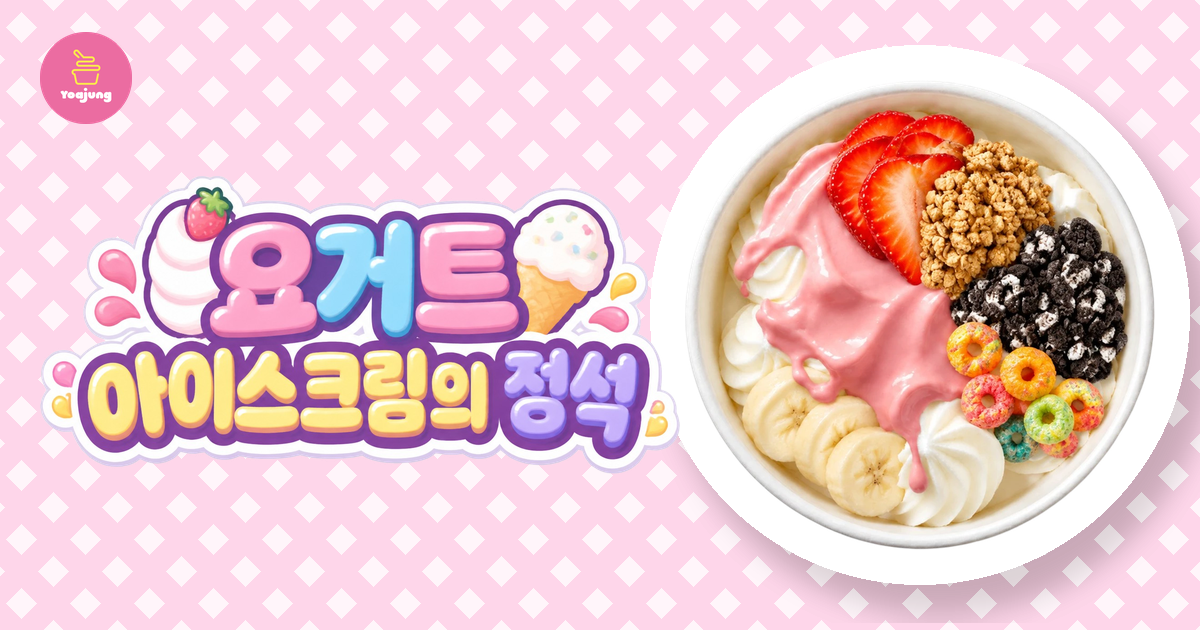
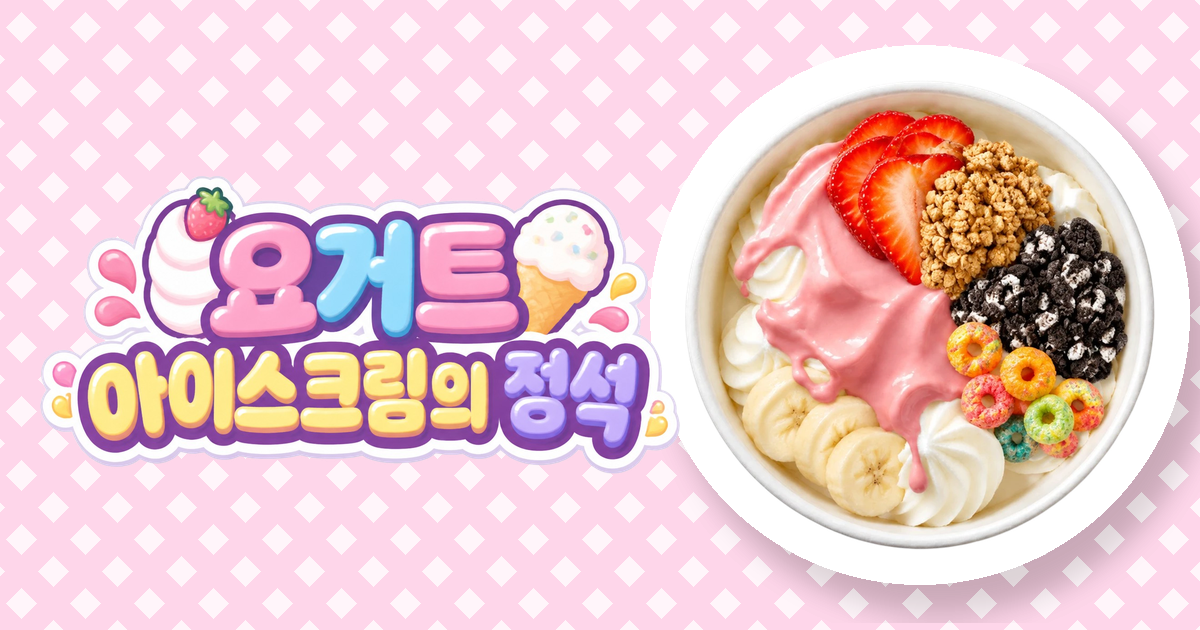
로고 스티커를 직접 만든 아이스크림 스티커로 교체, 소리·전환 다듬기
- 포장 뚜껑·주문서·영수증의 스티커를 벡터 아이스크림 스티커로
- 파비콘은 핑크 아이스크림 아이콘, OG 이미지에서 로고 제거
- 과일·디저트·쉘·시럽 소리를 타-다-닥 세 번으로, 시작 화면 전환 부드럽게

Changed region(s): [[0.0308, 0.0302, 0.1233, 0.2111]]

diff --git a/index.html b/index.html
@@ -183,7 +183,7 @@ a{color:#231B18}a:hover{color:#E5007A}
     </div>
     <sc-if value="{{packed}}">
       <img class="yj-lid" src="assets/778dcc3df15bb22812242dc68f4e9d0c.png" alt="요아정 컵 뚜껑" draggable="false" style="left: 47.5%; top: 46%; width: {{lidW}}px; height: {{lidW}}px; object-fit: contain; filter: drop-shadow(10px 16px 12px rgba(35,27,24,0.22));">
-      <img class="yj-sticker" src="assets/72e3a85ac19e23f7f4706af8a10f4ad3.png" alt="요아정 스티커" draggable="false" style="left: 47.5%; top: 48%; width: {{stickerW}}px; height: {{stickerW}}px; object-fit: contain; filter: drop-shadow(2px 4px 3px rgba(35,27,24,0.22));">
+      <img class="yj-sticker" src="assets/b2eb8bb2894132c700c296fcb87efa4e.svg" alt="요아정 스티커" draggable="false" style="left: 47.5%; top: 48%; width: {{stickerW}}px; height: {{stickerW}}px; object-fit: contain; filter: drop-shadow(2px 4px 3px rgba(35,27,24,0.22));">
     </sc-if>
   </div>
 
@@ -233,7 +233,7 @@ a{color:#231B18}a:hover{color:#E5007A}
     <sc-if value="{{showSummary}}">
       <div aria-label="주문서" style="position: absolute; left: 20px; top: 20px; width: 353px;">
         <div style="display: flex; align-items: center; justify-content: space-between; height: 24px;">
-          <span style="display: flex; align-items: center; gap: 6px; font-size: 14px; line-height: 20px; font-weight: 800; color: var(--color-accent);"><img src="assets/72e3a85ac19e23f7f4706af8a10f4ad3.png" alt="" style="width: 20px; height: 20px; object-fit: contain;">요아정 주문서</span>
+          <span style="display: flex; align-items: center; gap: 6px; font-size: 14px; line-height: 20px; font-weight: 800; color: var(--color-accent);"><img src="assets/b2eb8bb2894132c700c296fcb87efa4e.svg" alt="" style="width: 20px; height: 20px; object-fit: contain;">요아정 주문서</span>
           <span style="font-size: 12px; line-height: 16px; font-weight: 600; color: var(--color-text-secondary); font-variant-numeric: tabular-nums;">No.0047 · {{summaryCount}}</span>
         </div>
         <div style="margin: 8px 0 4px; border-top: 1.5px dashed var(--color-divider);"></div>
@@ -290,10 +290,10 @@ a{color:#231B18}a:hover{color:#E5007A}
 
   <sc-if value="{{paid}}">
     <div class="yj-scrim" style="position: absolute; left: 0; top: 0; width: 393px; height: 716px; background: var(--color-accent); z-index: 30;">
-      <img src="assets/72e3a85ac19e23f7f4706af8a10f4ad3.png" alt="요아정" style="position: absolute; left: 172px; top: 16px; width: 48px; height: 48px; object-fit: contain;">
+      <img src="assets/b2eb8bb2894132c700c296fcb87efa4e.svg" alt="요아정" style="position: absolute; left: 172px; top: 16px; width: 48px; height: 48px; object-fit: contain;">
       <article class="yj-print" style="position: absolute; left: 32px; top: 80px; width: 329px; box-sizing: border-box; padding: 20px 20px 24px; background: #FFFFFF; filter: drop-shadow(6px 10px 10px rgba(70,6,34,0.3)); display: flex; flex-direction: column; gap: 12px;">
         <div style="display: flex; align-items: baseline; justify-content: space-between; padding-bottom: 8px; border-bottom: 2px solid var(--color-accent);">
-          <span style="font-size: 20px; line-height: 28px; font-weight: 800; color: var(--color-accent); letter-spacing: -0.5px;">요아정 주문서</span>
+          <span style="font-size: 20px; line-height: 28px; font-weight: 800; color: var(--color-accent); letter-spacing: -0.5px;">주문서</span>
           <span style="font-size: 14px; line-height: 20px; font-weight: 700; color: var(--color-accent); font-variant-numeric: tabular-nums;">No.0047</span>
         </div>
         <div style="display: flex; flex-direction: column;">
@@ -332,7 +332,7 @@ a{color:#231B18}a:hover{color:#E5007A}
 </script>
 <script>(function(global,factory){typeof exports==="object"&&typeof module!=="undefined"?module.exports=factory():typeof define==="function"&&define.amd?define(factory):(global=global||self,global.morphdom=factory())})(this,function(){"use strict";var DOCUMENT_FRAGMENT_NODE=11;function morphAttrs(fromNode,toNode){var toNodeAttrs=toNode.attributes;var attr;var attrName;var attrNamespaceURI;var attrValue;var fromValue;if(toNode.nodeType===DOCUMENT_FRAGMENT_NODE||fromNode.nodeType===DOCUMENT_FRAGMENT_NODE){return}for(var i=toNodeAttrs.length-1;i>=0;i--){attr=toNodeAttrs[i];attrName=attr.name;attrNamespaceURI=attr.namespaceURI;attrValue=attr.value;if(attrNamespaceURI){attrName=attr.localName||attrName;fromValue=fromNode.getAttributeNS(attrNamespaceURI,attrName);if(fromValue!==attrValue){if(attr.prefix==="xmlns"){attrName=attr.name}fromNode.setAttributeNS(attrNamespaceURI,attrName,attrValue)}}else{fromValue=fromNode.getAttribute(attrName);if(fromValue!==attrValue){fromNode.setAttribute(attrName,attrValue)}}}var fromNodeAttrs=fromNode.attributes;for(var d=fromNodeAttrs.length-1;d>=0;d--){attr=fromNodeAttrs[d];attrName=attr.name;attrNamespaceURI=attr.namespaceURI;if(attrNamespaceURI){attrName=attr.localName||attrName;if(!toNode.hasAttributeNS(attrNamespaceURI,attrName)){fromNode.removeAttributeNS(attrNamespaceURI,attrName)}}else{if(!toNode.hasAttribute(attrName)){fromNode.removeAttribute(attrName)}}}}var range;var NS_XHTML="http://www.w3.org/1999/xhtml";var doc=typeof document==="undefined"?undefined:document;var HAS_TEMPLATE_SUPPORT=!!doc&&"content"in doc.createElement("template");var HAS_RANGE_SUPPORT=!!doc&&doc.createRange&&"createContextualFragment"in doc.createRange();function createFragmentFromTemplate(str){var template=doc.createElement("template");template.innerHTML=str;return template.content.childNodes[0]}function createFragmentFromRange(str){if(!range){range=doc.createRange();range.selectNode(doc.body)}var fragment=range.createContextualFragment(str);return fragment.childNodes[0]}function createFragmentFromWrap(str){var fragment=doc.createElement("body");fragment.innerHTML=str;return fragment.childNodes[0]}function toElement(str){str=str.trim();if(HAS_TEMPLATE_SUPPORT){return createFragmentFromTemplate(str)}else if(HAS_RANGE_SUPPORT){return createFragmentFromRange(str)}return createFragmentFromWrap(str)}function compareNodeNames(fromEl,toEl){var fromNodeName=fromEl.nodeName;var toNodeName=toEl.nodeName;var fromCodeStart,toCodeStart;if(fromNodeName===toNodeName){return true}fromCodeStart=fromNodeName.charCodeAt(0);toCodeStart=toNodeName.charCodeAt(0);if(fromCodeStart<=90&&toCodeStart>=97){return fromNodeName===toNodeName.toUpperCase()}else if(toCodeStart<=90&&fromCodeStart>=97){return toNodeName===fromNodeName.toUpperCase()}else{return false}}function createElementNS(name,namespaceURI){return!namespaceURI||namespaceURI===NS_XHTML?doc.createElement(name):doc.createElementNS(namespaceURI,name)}function moveChildren(fromEl,toEl){var curChild=fromEl.firstChild;while(curChild){var nextChild=curChild.nextSibling;toEl.appendChild(curChild);curChild=nextChild}return toEl}function syncBooleanAttrProp(fromEl,toEl,name){if(fromEl[name]!==toEl[name]){fromEl[name]=toEl[name];if(fromEl[name]){fromEl.setAttribute(name,"")}else{fromEl.removeAttribute(name)}}}var specialElHandlers={OPTION:function(fromEl,toEl){var parentNode=fromEl.parentNode;if(parentNode){var parentName=parentNode.nodeName.toUpperCase();if(parentName==="OPTGROUP"){parentNode=parentNode.parentNode;parentName=parentNode&&parentNode.nodeName.toUpperCase()}if(parentName==="SELECT"&&!parentNode.hasAttribute("multiple")){if(fromEl.hasAttribute("selected")&&!toEl.selected){fromEl.setAttribute("selected","selected");fromEl.removeAttribute("selected")}parentNode.selectedIndex=-1}}syncBooleanAttrProp(fromEl,toEl,"selected")},INPUT:function(fromEl,toEl){syncBooleanAttrProp(fromEl,toEl,"checked");syncBooleanAttrProp(fromEl,toEl,"disabled");if(fromEl.value!==toEl.value){fromEl.value=toEl.value}if(!toEl.hasAttribute("value")){fromEl.removeAttribute("value")}},TEXTAREA:function(fromEl,toEl){var newValue=toEl.value;if(fromEl.value!==newValue){fromEl.value=newValue}var firstChild=fromEl.firstChild;if(firstChild){var oldValue=firstChild.nodeValue;if(oldValue==newValue||!newValue&&oldValue==fromEl.placeholder){return}firstChild.nodeValue=newValue}},SELECT:function(fromEl,toEl){if(!toEl.hasAttribute("multiple")){var selectedIndex=-1;var i=0;var curChild=fromEl.firstChild;var optgroup;var nodeName;while(curChild){nodeName=curChild.nodeName&&curChild.nodeName.toUpperCase();if(nodeName==="OPTGROUP"){optgroup=curChild;curChild=optgroup.firstChild}else{if(nodeName==="OPTION"){if(curChild.hasAttribute("selected")){selectedIndex=i;break}i++}curChild=curChild.nextSibling;if(!curChild&&optgroup){curChild=optgroup.nextSibling;optgroup=null}}}fromEl.selectedIndex=selectedIndex}}};var ELEMENT_NODE=1;var DOCUMENT_FRAGMENT_NODE$1=11;var TEXT_NODE=3;var COMMENT_NODE=8;function noop(){}function defaultGetNodeKey(node){if(node){return node.getAttribute&&node.getAttribute("id")||node.id}}function morphdomFactory(morphAttrs){return function morphdom(fromNode,toNode,options){if(!options){options={}}if(typeof toNode==="string"){if(fromNode.nodeName==="#document"||fromNode.nodeName==="HTML"||fromNode.nodeName==="BODY"){var toNodeHtml=toNode;toNode=doc.createElement("html");toNode.innerHTML=toNodeHtml}else{toNode=toElement(toNode)}}else if(toNode.nodeType===DOCUMENT_FRAGMENT_NODE$1){toNode=toNode.firstElementChild}var getNodeKey=options.getNodeKey||defaultGetNodeKey;var onBeforeNodeAdded=options.onBeforeNodeAdded||noop;var onNodeAdded=options.onNodeAdded||noop;var onBeforeElUpdated=options.onBeforeElUpdated||noop;var onElUpdated=options.onElUpdated||noop;var onBeforeNodeDiscarded=options.onBeforeNodeDiscarded||noop;var onNodeDiscarded=options.onNodeDiscarded||noop;var onBeforeElChildrenUpdated=options.onBeforeElChildrenUpdated||noop;var skipFromChildren=options.skipFromChildren||noop;var addChild=options.addChild||function(parent,child){return parent.appendChild(child)};var childrenOnly=options.childrenOnly===true;var fromNodesLookup=Object.create(null);var keyedRemovalList=[];function addKeyedRemoval(key){keyedRemovalList.push(key)}function walkDiscardedChildNodes(node,skipKeyedNodes){if(node.nodeType===ELEMENT_NODE){var curChild=node.firstChild;while(curChild){var key=undefined;if(skipKeyedNodes&&(key=getNodeKey(curChild))){addKeyedRemoval(key)}else{onNodeDiscarded(curChild);if(curChild.firstChild){walkDiscardedChildNodes(curChild,skipKeyedNodes)}}curChild=curChild.nextSibling}}}function removeNode(node,parentNode,skipKeyedNodes){if(onBeforeNodeDiscarded(node)===false){return}if(parentNode){parentNode.removeChild(node)}onNodeDiscarded(node);walkDiscardedChildNodes(node,skipKeyedNodes)}function indexTree(node){if(node.nodeType===ELEMENT_NODE||node.nodeType===DOCUMENT_FRAGMENT_NODE$1){var curChild=node.firstChild;while(curChild){var key=getNodeKey(curChild);if(key){fromNodesLookup[key]=curChild}indexTree(curChild);curChild=curChild.nextSibling}}}indexTree(fromNode);function handleNodeAdded(el){onNodeAdded(el);var curChild=el.firstChild;while(curChild){var nextSibling=curChild.nextSibling;var key=getNodeKey(curChild);if(key){var unmatchedFromEl=fromNodesLookup[key];if(unmatchedFromEl&&compareNodeNames(curChild,unmatchedFromEl)){curChild.parentNode.replaceChild(unmatchedFromEl,curChild);morphEl(unmatchedFromEl,curChild)}else{handleNodeAdded(curChild)}}else{handleNodeAdded(curChild)}curChild=nextSibling}}function cleanupFromEl(fromEl,curFromNodeChild,curFromNodeKey){while(curFromNodeChild){var fromNextSibling=curFromNodeChild.nextSibling;if(curFromNodeKey=getNodeKey(curFromNodeChild)){addKeyedRemoval(curFromNodeKey)}else{removeNode(curFromNodeChild,fromEl,true)}curFromNodeChild=fromNextSibling}}function morphEl(fromEl,toEl,childrenOnly){var toElKey=getNodeKey(toEl);if(toElKey){delete fromNodesLookup[toElKey]}if(!childrenOnly){var beforeUpdateResult=onBeforeElUpdated(fromEl,toEl);if(beforeUpdateResult===false){return}else if(beforeUpdateResult instanceof HTMLElement){fromEl=beforeUpdateResult;indexTree(fromEl)}morphAttrs(fromEl,toEl);onElUpdated(fromEl);if(onBeforeElChildrenUpdated(fromEl,toEl)===false){return}}if(fromEl.nodeName!=="TEXTAREA"){morphChildren(fromEl,toEl)}else{specialElHandlers.TEXTAREA(fromEl,toEl)}}function morphChildren(fromEl,toEl){var skipFrom=skipFromChildren(fromEl,toEl);var curToNodeChild=toEl.firstChild;var curFromNodeChild=fromEl.firstChild;var curToNodeKey;var curFromNodeKey;var fromNextSibling;var toNextSibling;var matchingFromEl;outer:while(curToNodeChild){toNextSibling=curToNodeChild.nextSibling;curToNodeKey=getNodeKey(curToNodeChild);while(!skipFrom&&curFromNodeChild){fromNextSibling=curFromNodeChild.nextSibling;if(curToNodeChild.isSameNode&&curToNodeChild.isSameNode(curFromNodeChild)){curToNodeChild=toNextSibling;curFromNodeChild=fromNextSibling;continue outer}curFromNodeKey=getNodeKey(curFromNodeChild);var curFromNodeType=curFromNodeChild.nodeType;var isCompatible=undefined;if(curFromNodeType===curToNodeChild.nodeType){if(curFromNodeType===ELEMENT_NODE){if(curToNodeKey){if(curToNodeKey!==curFromNodeKey){if(matchingFromEl=fromNodesLookup[curToNodeKey]){if(fromNextSibling===matchingFromEl){isCompatible=false}else{fromEl.insertBefore(matchingFromEl,curFromNodeChild);if(curFromNodeKey){addKeyedRemoval(curFromNodeKey)}else{removeNode(curFromNodeChild,fromEl,true)}curFromNodeChild=matchingFromEl;curFromNodeKey=getNodeKey(curFromNodeChild)}}else{isCompatible=false}}}else if(curFromNodeKey){isCompatible=false}isCompatible=isCompatible!==false&&compareNodeNames(curFromNodeChild,curToNodeChild);if(isCompatible){morphEl(curFromNodeChild,curToNodeChild)}}else if(curFromNodeType===TEXT_NODE||curFromNodeType==COMMENT_NODE){isCompatible=true;if(curFromNodeChild.nodeValue!==curToNodeChild.nodeValue){curFromNodeChild.nodeValue=curToNodeChild.nodeValue}}}if(isCompatible){curToNodeChild=toNextSibling;curFromNodeChild=fromNextSibling;continue outer}if(curFromNodeKey){addKeyedRemoval(curFromNodeKey)}else{removeNode(curFromNodeChild,fromEl,true)}curFromNodeChild=fromNextSibling}if(curToNodeKey&&(matchingFromEl=fromNodesLookup[curToNodeKey])&&compareNodeNames(matchingFromEl,curToNodeChild)){if(!skipFrom){addChild(fromEl,matchingFromEl)}morphEl(matchingFromEl,curToNodeChild)}else{var onBeforeNodeAddedResult=onBeforeNodeAdded(curToNodeChild);if(onBeforeNodeAddedResult!==false){if(onBeforeNodeAddedResult){curToNodeChild=onBeforeNodeAddedResult}if(curToNodeChild.actualize){curToNodeChild=curToNodeChild.actualize(fromEl.ownerDocument||doc)}addChild(fromEl,curToNodeChild);handleNodeAdded(curToNodeChild)}}curToNodeChild=toNextSibling;curFromNodeChild=fromNextSibling}cleanupFromEl(fromEl,curFromNodeChild,curFromNodeKey);var specialElHandler=specialElHandlers[fromEl.nodeName];if(specialElHandler){specialElHandler(fromEl,toEl)}}var morphedNode=fromNode;var morphedNodeType=morphedNode.nodeType;var toNodeType=toNode.nodeType;if(!childrenOnly){if(morphedNodeType===ELEMENT_NODE){if(toNodeType===ELEMENT_NODE){if(!compareNodeNames(fromNode,toNode)){onNodeDiscarded(fromNode);morphedNode=moveChildren(fromNode,createElementNS(toNode.nodeName,toNode.namespaceURI))}}else{morphedNode=toNode}}else if(morphedNodeType===TEXT_NODE||morphedNodeType===COMMENT_NODE){if(toNodeType===morphedNodeType){if(morphedNode.nodeValue!==toNode.nodeValue){morphedNode.nodeValue=toNode.nodeValue}return morphedNode}else{morphedNode=toNode}}}if(morphedNode===toNode){onNodeDiscarded(fromNode)}else{if(toNode.isSameNode&&toNode.isSameNode(morphedNode)){return}morphEl(morphedNode,toNode,childrenOnly);if(keyedRemovalList){for(var i=0,len=keyedRemovalList.length;i<len;i++){var elToRemove=fromNodesLookup[keyedRemovalList[i]];if(elToRemove){removeNode(elToRemove,elToRemove.parentNode,false)}}}}if(!childrenOnly&&morphedNode!==fromNode&&fromNode.parentNode){if(morphedNode.actualize){morphedNode=morphedNode.actualize(fromNode.ownerDocument||doc)}fromNode.parentNode.replaceChild(morphedNode,fromNode)}return morphedNode}}var morphdom=morphdomFactory(morphAttrs);return morphdom});</script>
 <script>
-var ASSET_EXT = {"851cb342bd3c5bff95d7304fe794aee3": ".png", "365a114786e492918485b620ed962f9a": ".png", "77d355781a7aaa482a49e1d9ee779ef6": ".png", "c6eb9211b480774c850909a308885c2b": ".png", "bdec9079f64564854bb96a650a652c42": ".png", "559118ff69e866395537955541bf1bda": ".png", "2475d25598b1db8cc0d48b4f0e6b8760": ".png", "200db8db6b8ea75d3ad92de5518bed8c": ".png", "13a86178f40ac38e6f7f8b3558ad6876": ".png", "20ddaa54e3f83a687afc2111710a54cd": ".png", "5940300b7e27f20cfd5d29607d91c493": ".png", "ce07ce75cac7d39026a4fbb088436888": ".png", "79e7a022d7d468a12ad5e2378e4bff60": ".png", "9df81f9476b17429d1a2944f98b4fbeb": ".png", "2533d4e1ad1f5c57056074efdcc5abe0": ".png", "089b0d1dd353addf76102b876f677cb6": ".png", "b2ce1c7c3f1f0f5c2e8b5e4ed24d592d": ".png", "84301ca59fafc49f0b26b7a62b450830": ".png", "065ec2bbbb4588bf001ef0b740e0fac6": ".png", "350d7e6cf4d151ba4b60c22b6fed03d3": ".png", "508b72690fcb950208d36dfa10e29b2b": ".png", "e12d0eff5c1eac74d15ab95f04101cb5": ".png", "a2962100b265313ac1ba5cb90b882c2e": ".png", "8396c15c0a99d9b4e1d87d078cfce7b3": ".png", "2bb9097421f27366ee20ad98142643e7": ".png", "aa490e6855a01c23fd42e529c5b5c5d2": ".jpg", "c54396879a68c0c6b2136c2a54584cb4": ".png", "4da9b108c869e045bf34c10d087c9c66": ".png", "bb5e78e1f9903bb9c6c6ae7a5bdf10fe": ".png", "00b572c8316f6bdf27ce5d84787bae10": ".png", "82db5dfe3c9cd70f348756e5fb6dceeb": ".png", "968188939b1c80105b4d9a76ef265193": ".png", "6e4ffd3f8d7d2dd887bfc10549baed99": ".png", "6b49dfbd05317d61b65780258433b1fa": ".png", "f7328fe4cb45b5e1f4a1a98036cfd038": ".png", "3b348d94388f79a7e1f79108761fe0fb": ".png", "5f6af7686e1f065c26ce4d59cc7a3a25": ".png", "002d38fe36138f8a0f2b14efcadc3473": ".png", "dd1a99162a109cfd23d9a94f716f217d": ".png", "54947e181fee21ce9ac362809f94445e": ".png", "64ad7c4b219d30350c05a3efd9df758d": ".png", "79136be84f5fe87a8688ea89ae817724": ".png", "5f9fab821d8d99d9c4bb13248fad6a69": ".png", "72e3a85ac19e23f7f4706af8a10f4ad3": ".png", "bd2f94ee3b5eb2be6e4f287a914adc15": ".png", "d95f207624e79f8eb73affa094cd2937": ".png", "c6d608c508a1b0b13be487a901980d32": ".png", "3696acf8112ff37d0aa1aa0d8f2b2cbf": ".png", "0e740bd281139dbe98c9130c198d1b06": ".png", "8e47b1900b9ca4db3769e8c1437119fd": ".png", "2bd3c1fd4bfd286961f107d2aa8fd216": ".png", "5d6ba552bdac342125dacf4339f4c8d8": ".png", "7b8b9b8ac21941342cd30979dde38cfe": ".png", "6b8591d6839f852ab1ec39d36e98c018": ".png", "b94ed62da52db105194a8f4b53ba47ae": ".png", "4a0781f30ac9371613cec3eaaf09c700": ".png", "9a8f1c3118bf095eb455c55c693c4e8c": ".png", "86122eba68b949ed66d5363260c0cffa": ".png", "28c58eb111eb22efcd87e66fb9b70bbb": ".png", "dde97d7c9cc6dfbb59ec7d4a3bb52826": ".woff2", "26409046fc6fe48358541499eaade016": ".png", "39787cf88f70d2a9879ed64e609f8a8a": ".png", "93d193fedab6f5d300ac9f10c4e96781": ".png", "3f6b324ae375a0ad581ff69c8d2e6d2d": ".png", "c76b391929036414f8ae5bc0f4f90cb0": ".png", "6b5a282a50b6563af36161bc50d7a253": ".png", "b5936224af08e46eb904363017f0fa64": ".png", "46348ccecaae6f431e671a2814790bce": ".png", "8fa57f0e5fed26518d008308c9e1eee3": ".png", "d465338f0317d2bd23f6d9be1dd8c2ad": ".png", "2a74ec98ab8d9d02d99807c7d7b9b759": ".png", "2b0cb743e81a2aa3ef07916e7bf8d0df": ".png", "7b3c6a624a80f45ba41617dd9952a1ce": ".png", "617acbb9697a01984c7b4ff41e69ca8b": ".png", "ae869978458759b541c88889adb602f1": ".png", "ef16c5a612c7d213e1371d74d01baedd": ".png", "a960579a59c4a2cca58aae3e59ee5177": ".png", "5cbef56aada9832ea1e58cfcdc13619f": ".png", "11976f9f710198990e718d49e5fd2511": ".png", "515e061b94b7f5ec6bceeb6f61e8dc65": ".png", "2018081ec02e3aa4683fcd22ed38f984": ".png", "5ea679bbbaf46dbff2ba4d099f280d49": ".png", "c87e451031deb060993f45462f7c4737": ".png", "d1a6c28afa9dd86b829abf6b4fd4b4dc": ".png", "31c43d6608a7f6621978fa7a0c8ac152": ".png", "76ec4f40e7d7ff8d9151d4ccf92e59a6": ".png", "5fe828ca8e81c9675f721e9a2c4ea582": ".png", "778dcc3df15bb22812242dc68f4e9d0c": ".png", "77e7d41d3ba189b00ea901e00d76a0e4": ".png", "603d4963afa5d4aeeed508a8b67fbb6a": ".png", "7b048ba5a922199c5cb556f2b810f112": ".png", "5cff2207e05867b74c3b7fb4f2931f05": ".png", "97187f4b2efd90f2fa6b62b714b84b00": ".png", "31a3d1497776b99edae83244ca8c7e14": ".png", "329b04af2e9605b02646b8cc54c796e3": ".png", "1a643c9ef14d7af6c2b5e7429161f282": ".png", "616a27f86de83acc2b31fa44aa49a2fc": ".png", "06da7707ffcdff46e60254e360a36ba8": ".png", "1d9d4252e588457801666cd90f45b73d": ".png", "e02f4c316f8f6160514f476a2373d820": ".png", "37bf6a8f897df155b00d5884b894ef89": ".png", "a06e640b772fed13fb94023e64d86f3d": ".png", "eb6dc50c8b6baa50fc3eacc6f758f28f": ".png", "77a5d179ac2fa76062bab9ad0ae36026": ".png", "37f693b4c07d7cd264ce8c7338cf65aa": ".png", "20a45cd4d3e78c91c88336ffdcf4e6e9": ".png", "b80e58e563f850f16b6596c05d90bcbb": ".png", "5f788554c469cceabb870ef356b9ddc6": ".png", "ab9d343c48aabe1c8355debea9a43442": ".png", "8cdff35edf3899a2c7eac0ea2bb9f02e": ".png", "3d0343fd5d9a72a433b78d83851038bc": ".png", "bf97eb6a776f5e7f978cd1f5c875e56b": ".png", "29d24796ddc6d2879ac2de149daa0a70": ".png", "5ee2325a209331e0158f1b8e48b0c13e": ".png", "1e24bc1b27e61f1f49e3597cf48b9022": ".png", "bef4030fe02d26d7731371eb34f156ca": ".png", "fa386a34eade73b8ca4431f1d228b2dd": ".png"};
+var ASSET_EXT = {"851cb342bd3c5bff95d7304fe794aee3": ".png", "365a114786e492918485b620ed962f9a": ".png", "77d355781a7aaa482a49e1d9ee779ef6": ".png", "c6eb9211b480774c850909a308885c2b": ".png", "bdec9079f64564854bb96a650a652c42": ".png", "559118ff69e866395537955541bf1bda": ".png", "2475d25598b1db8cc0d48b4f0e6b8760": ".png", "200db8db6b8ea75d3ad92de5518bed8c": ".png", "13a86178f40ac38e6f7f8b3558ad6876": ".png", "20ddaa54e3f83a687afc2111710a54cd": ".png", "5940300b7e27f20cfd5d29607d91c493": ".png", "ce07ce75cac7d39026a4fbb088436888": ".png", "79e7a022d7d468a12ad5e2378e4bff60": ".png", "9df81f9476b17429d1a2944f98b4fbeb": ".png", "2533d4e1ad1f5c57056074efdcc5abe0": ".png", "089b0d1dd353addf76102b876f677cb6": ".png", "b2ce1c7c3f1f0f5c2e8b5e4ed24d592d": ".png", "84301ca59fafc49f0b26b7a62b450830": ".png", "065ec2bbbb4588bf001ef0b740e0fac6": ".png", "350d7e6cf4d151ba4b60c22b6fed03d3": ".png", "508b72690fcb950208d36dfa10e29b2b": ".png", "e12d0eff5c1eac74d15ab95f04101cb5": ".png", "a2962100b265313ac1ba5cb90b882c2e": ".png", "8396c15c0a99d9b4e1d87d078cfce7b3": ".png", "2bb9097421f27366ee20ad98142643e7": ".png", "aa490e6855a01c23fd42e529c5b5c5d2": ".jpg", "c54396879a68c0c6b2136c2a54584cb4": ".png", "4da9b108c869e045bf34c10d087c9c66": ".png", "bb5e78e1f9903bb9c6c6ae7a5bdf10fe": ".png", "00b572c8316f6bdf27ce5d84787bae10": ".png", "82db5dfe3c9cd70f348756e5fb6dceeb": ".png", "968188939b1c80105b4d9a76ef265193": ".png", "6e4ffd3f8d7d2dd887bfc10549baed99": ".png", "6b49dfbd05317d61b65780258433b1fa": ".png", "f7328fe4cb45b5e1f4a1a98036cfd038": ".png", "3b348d94388f79a7e1f79108761fe0fb": ".png", "5f6af7686e1f065c26ce4d59cc7a3a25": ".png", "002d38fe36138f8a0f2b14efcadc3473": ".png", "dd1a99162a109cfd23d9a94f716f217d": ".png", "54947e181fee21ce9ac362809f94445e": ".png", "64ad7c4b219d30350c05a3efd9df758d": ".png", "79136be84f5fe87a8688ea89ae817724": ".png", "5f9fab821d8d99d9c4bb13248fad6a69": ".png", "bd2f94ee3b5eb2be6e4f287a914adc15": ".png", "d95f207624e79f8eb73affa094cd2937": ".png", "c6d608c508a1b0b13be487a901980d32": ".png", "3696acf8112ff37d0aa1aa0d8f2b2cbf": ".png", "0e740bd281139dbe98c9130c198d1b06": ".png", "8e47b1900b9ca4db3769e8c1437119fd": ".png", "2bd3c1fd4bfd286961f107d2aa8fd216": ".png", "5d6ba552bdac342125dacf4339f4c8d8": ".png", "7b8b9b8ac21941342cd30979dde38cfe": ".png", "6b8591d6839f852ab1ec39d36e98c018": ".png", "b94ed62da52db105194a8f4b53ba47ae": ".png", "4a0781f30ac9371613cec3eaaf09c700": ".png", "9a8f1c3118bf095eb455c55c693c4e8c": ".png", "86122eba68b949ed66d5363260c0cffa": ".png", "28c58eb111eb22efcd87e66fb9b70bbb": ".png", "dde97d7c9cc6dfbb59ec7d4a3bb52826": ".woff2", "26409046fc6fe48358541499eaade016": ".png", "39787cf88f70d2a9879ed64e609f8a8a": ".png", "93d193fedab6f5d300ac9f10c4e96781": ".png", "3f6b324ae375a0ad581ff69c8d2e6d2d": ".png", "c76b391929036414f8ae5bc0f4f90cb0": ".png", "6b5a282a50b6563af36161bc50d7a253": ".png", "b5936224af08e46eb904363017f0fa64": ".png", "46348ccecaae6f431e671a2814790bce": ".png", "8fa57f0e5fed26518d008308c9e1eee3": ".png", "d465338f0317d2bd23f6d9be1dd8c2ad": ".png", "2a74ec98ab8d9d02d99807c7d7b9b759": ".png", "2b0cb743e81a2aa3ef07916e7bf8d0df": ".png", "7b3c6a624a80f45ba41617dd9952a1ce": ".png", "617acbb9697a01984c7b4ff41e69ca8b": ".png", "ae869978458759b541c88889adb602f1": ".png", "ef16c5a612c7d213e1371d74d01baedd": ".png", "a960579a59c4a2cca58aae3e59ee5177": ".png", "5cbef56aada9832ea1e58cfcdc13619f": ".png", "11976f9f710198990e718d49e5fd2511": ".png", "515e061b94b7f5ec6bceeb6f61e8dc65": ".png", "2018081ec02e3aa4683fcd22ed38f984": ".png", "5ea679bbbaf46dbff2ba4d099f280d49": ".png", "c87e451031deb060993f45462f7c4737": ".png", "d1a6c28afa9dd86b829abf6b4fd4b4dc": ".png", "31c43d6608a7f6621978fa7a0c8ac152": ".png", "76ec4f40e7d7ff8d9151d4ccf92e59a6": ".png", "5fe828ca8e81c9675f721e9a2c4ea582": ".png", "778dcc3df15bb22812242dc68f4e9d0c": ".png", "77e7d41d3ba189b00ea901e00d76a0e4": ".png", "603d4963afa5d4aeeed508a8b67fbb6a": ".png", "7b048ba5a922199c5cb556f2b810f112": ".png", "5cff2207e05867b74c3b7fb4f2931f05": ".png", "97187f4b2efd90f2fa6b62b714b84b00": ".png", "31a3d1497776b99edae83244ca8c7e14": ".png", "329b04af2e9605b02646b8cc54c796e3": ".png", "1a643c9ef14d7af6c2b5e7429161f282": ".png", "616a27f86de83acc2b31fa44aa49a2fc": ".png", "06da7707ffcdff46e60254e360a36ba8": ".png", "1d9d4252e588457801666cd90f45b73d": ".png", "e02f4c316f8f6160514f476a2373d820": ".png", "37bf6a8f897df155b00d5884b894ef89": ".png", "a06e640b772fed13fb94023e64d86f3d": ".png", "eb6dc50c8b6baa50fc3eacc6f758f28f": ".png", "77a5d179ac2fa76062bab9ad0ae36026": ".png", "37f693b4c07d7cd264ce8c7338cf65aa": ".png", "20a45cd4d3e78c91c88336ffdcf4e6e9": ".png", "b80e58e563f850f16b6596c05d90bcbb": ".png", "5f788554c469cceabb870ef356b9ddc6": ".png", "ab9d343c48aabe1c8355debea9a43442": ".png", "8cdff35edf3899a2c7eac0ea2bb9f02e": ".png", "3d0343fd5d9a72a433b78d83851038bc": ".png", "bf97eb6a776f5e7f978cd1f5c875e56b": ".png", "29d24796ddc6d2879ac2de149daa0a70": ".png", "5ee2325a209331e0158f1b8e48b0c13e": ".png", "1e24bc1b27e61f1f49e3597cf48b9022": ".png", "bef4030fe02d26d7731371eb34f156ca": ".png", "b2eb8bb2894132c700c296fcb87efa4e": ".svg", "fa386a34eade73b8ca4431f1d228b2dd": ".png"};
 
 // ---- 작은 런타임: 캔버스 보드 문법(sc-for / sc-if / {{구멍}} / onX 핸들러)을 그대로 돌린다 ----
 var TEMPLATE = document.getElementById('yj-template').textContent;
